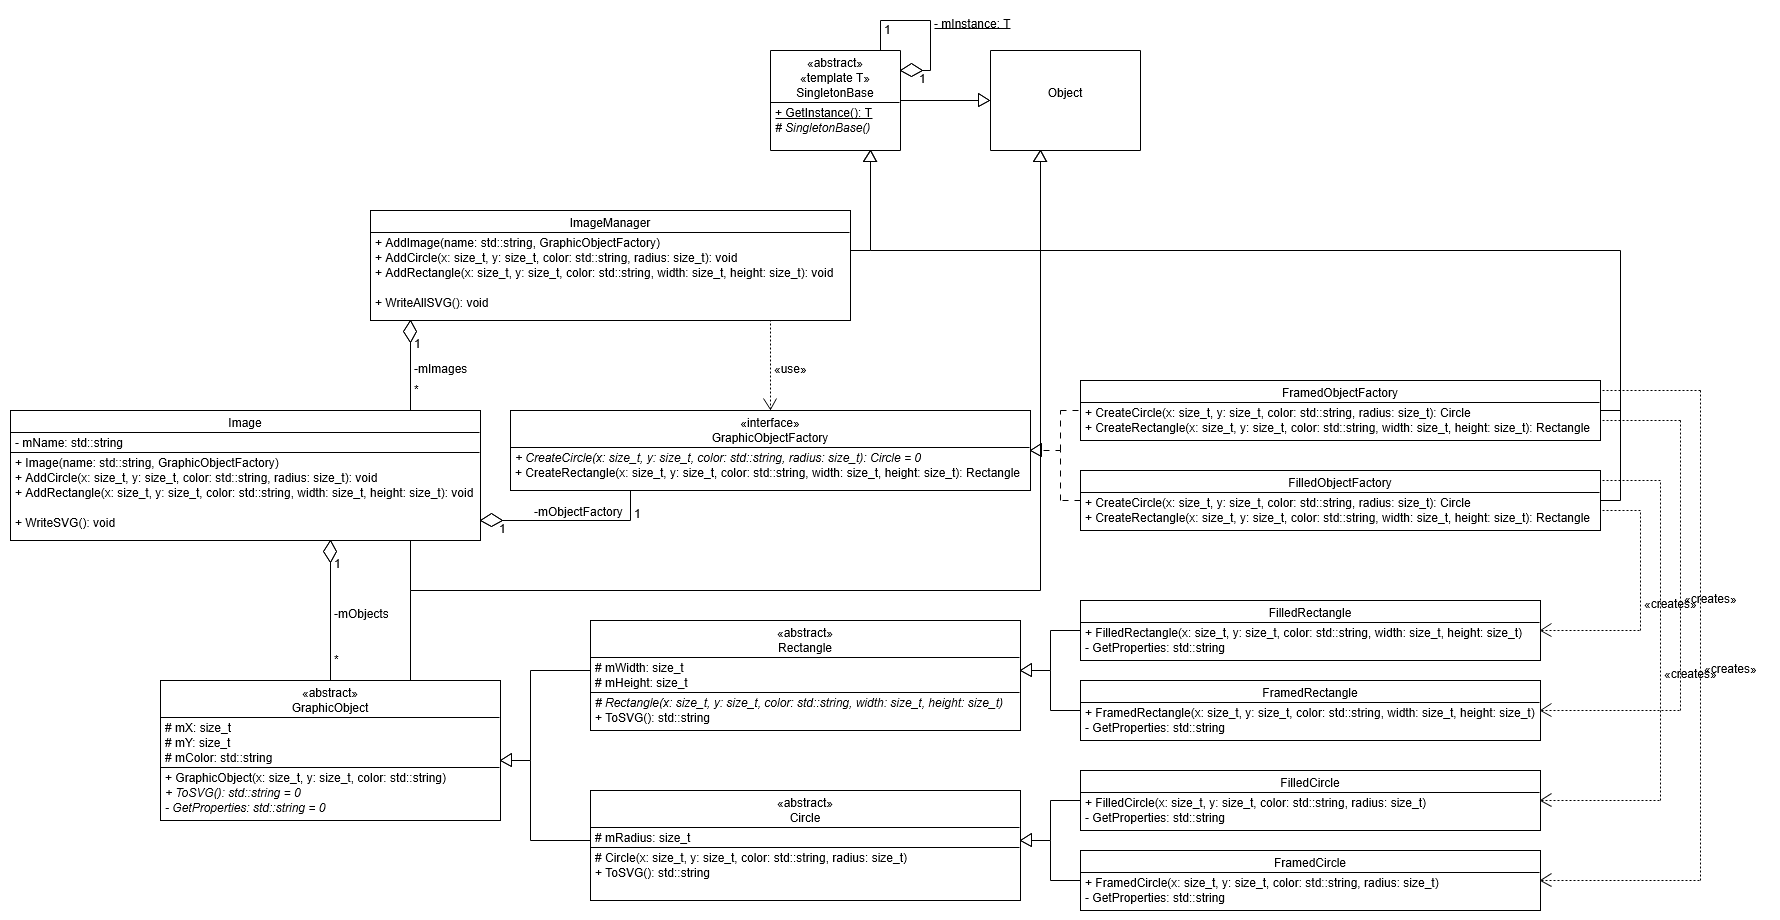
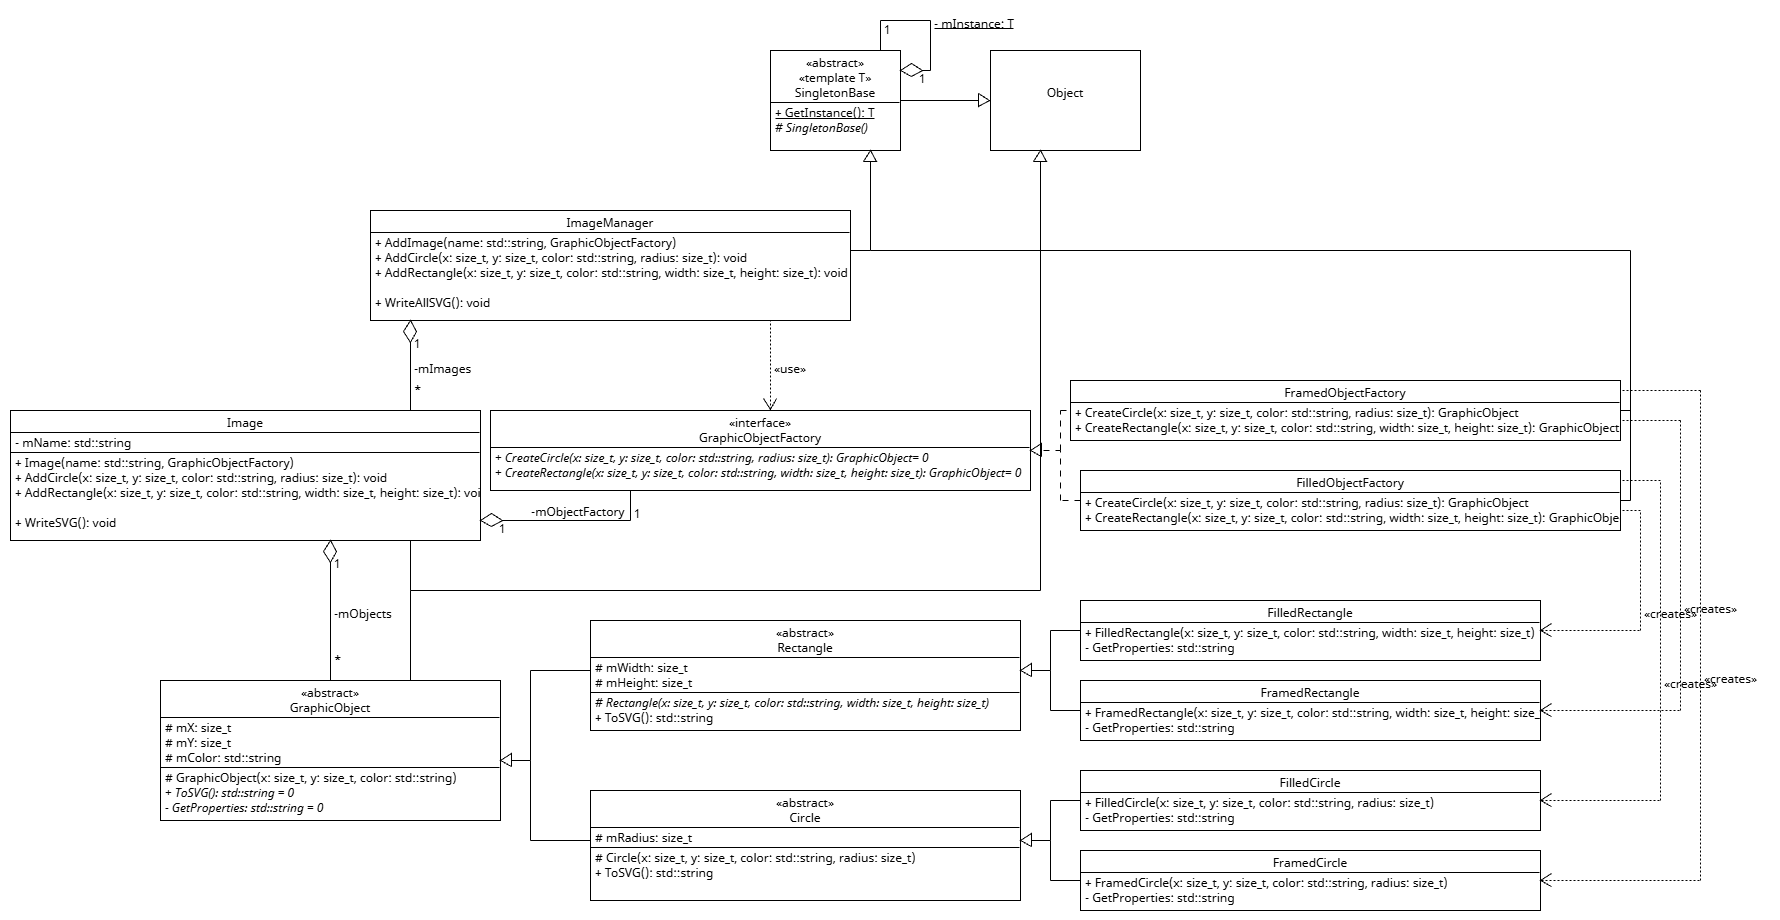
Implementation of the rest of the classes

diff --git a/Beispiel01/GraphicObjectFactory.h b/Beispiel01/GraphicObjectFactory.h
@@ -1,0 +1,35 @@
+#ifndef GRAPHICOBJECTFACTORY_H
+#define GRAPHICOBJECTFACTORY_H
+
+#include <string>
+#include <memory>
+
+#include "GraphicObject.h"
+
+
+/// @author Philip
+/// @date 5.11.2026
+/// @brief Interface class for diffrent graphic object factories
+/// 
+/// Circles and rectangle in diffrent styles can be created
+class GraphicObjectFactory
+{
+public:
+	/// @brief Creates a circle
+	/// @param[in] x x-pos of the circle
+	/// @param[in] y y-pos of the circle
+	/// @param[in] color color of the circle
+	/// @param[in] radius radius of the circle
+	virtual std::unique_ptr<GraphicObject> CreateCircle(size_t x, size_t y, std::string color, size_t radius) = 0;
+
+
+	/// @brief Creates a rectangle
+	/// @param[in] x x-pos of the rectangle
+	/// @param[in] y y-pos of the rectangle
+	/// @param[in] color color of the rectangle
+	/// @param[in] width width of the rectangle
+	/// @param[in] height height of the rectangle
+	virtual std::unique_ptr<GraphicObject> CreateRectangle(size_t x, size_t y, std::string color, size_t width, size_t height) = 0;
+};
+
+#endif

diff --git a/Beispiel01/FramedObjectFactory.h b/Beispiel01/FramedObjectFactory.h
@@ -1,0 +1,33 @@
+#ifndef FRAMEDOBJECTFACTORY_H
+#define FRAMEDOBJECTFACTORY_H
+
+#include "GraphicObject.h"
+#include "SingletonBase.h"
+
+
+/// @author Philip
+/// @date 8.11.2026
+/// @brief Factory to create framed circles and rectangles
+class FramedObjectFactory : public GraphicObject, public SingletonBase<FramedObjectFactory>
+{
+public:
+	/// @brief Creates a framed circle
+	/// @param[in] x x-pos of the circle
+	/// @param[in] y y-pos of the circle
+	/// @param[in] color color of the circle
+	/// @param[in] radius radius of the circle
+	virtual std::unique_ptr<GraphicObject> CreateCircle(size_t x, size_t y, std::string color, size_t radius);
+
+
+	/// @brief Creates a framed rectangle
+	/// @param[in] x x-pos of the rectangle
+	/// @param[in] y y-pos of the rectangle
+	/// @param[in] color color of the rectangle
+	/// @param[in] width width of the rectangle
+	/// @param[in] height height of the rectangle
+	virtual std::unique_ptr<GraphicObject> CreateRectangle(size_t x, size_t y, std::string color, size_t width, size_t height);
+
+
+};
+
+#endif

diff --git a/Beispiel01/FilledObjectFactory.h b/Beispiel01/FilledObjectFactory.h
@@ -1,0 +1,32 @@
+#ifndef FILLEDOBJECTFACTORY_H
+#define FILLEDOBJECTFACTORY_H
+
+#include "GraphicObject.h"
+#include "SingletonBase.h"
+
+
+/// @author Philip
+/// @date 8.11.2026
+/// @brief Factory to create filled circles and rectangles
+class FilledObjectFactory : public GraphicObject, public SingletonBase<FilledObjectFactory>
+{
+public:
+	/// @brief Creates a filled circle
+	/// @param[in] x x-pos of the circle
+	/// @param[in] y y-pos of the circle
+	/// @param[in] color color of the circle
+	/// @param[in] radius radius of the circle
+	virtual std::unique_ptr<GraphicObject> CreateCircle(size_t x, size_t y, std::string color, size_t radius);
+
+
+	/// @brief Creates a filled rectangle
+	/// @param[in] x x-pos of the rectangle
+	/// @param[in] y y-pos of the rectangle
+	/// @param[in] color color of the rectangle
+	/// @param[in] width width of the rectangle
+	/// @param[in] height height of the rectangle
+	virtual std::unique_ptr<GraphicObject> CreateRectangle(size_t x, size_t y, std::string color, size_t width, size_t height);
+
+};
+
+#endif

diff --git a/Beispiel01/FilledCricle.h b/Beispiel01/FilledCricle.h
@@ -1,0 +1,34 @@
+#ifndef FILLEDCIRCLE_H
+#define FILLEDCIRCLE_H
+
+#include "Circle.h"
+
+
+/// @author Philip Ackermann
+/// @date 09.11.2026
+/// @brief Class of a filled circle.
+/// 
+/// Represents a circle with its area drawn as filled.
+class FilledCircle : public Circle
+{
+public:
+	/// @brief std::unique_ptr of this class.
+	using UPtr = std::unique_ptr<FilledCircle>;
+
+	/// @brief CTor.
+	/// @param[in] x The X-coordinate of position.
+	/// @param[in] y The Y-coordinate of position.
+	/// @param[in] color Color of the circle (e.g. black, green,...).
+	/// @param[in] width The width of the circle.
+	/// @param[in] height The height of the circle.
+	FilledCircle(size_t const x, size_t const y, std::string const& color, size_t const radius);
+
+protected:
+	/// @brief Gets additional properties for the SVG-XML-Element.
+	/// @returns XML-properties as a string.
+	/// 
+	/// This is used as a template method in ToSVG for SVG creation.
+	std::string GetProperties() const override;
+};
+
+#endif

diff --git a/Beispiel01/FramedCircle.h b/Beispiel01/FramedCircle.h
@@ -1,0 +1,34 @@
+#ifndef FRAMEDCIRCLE_H
+#define FRAMEDCIRCLE_H
+
+#include "Circle.h"
+
+
+/// @author Philip Ackermann
+/// @date 09.11.2026
+/// @brief Class of a framed circle.
+/// 
+/// Represents a circle drawn as frame.
+class FramedCircle : public Circle
+{
+public:
+	/// @brief std::unique_ptr of this class.
+	using UPtr = std::unique_ptr<FramedCircle>;
+
+	/// @brief CTor.
+	/// @param[in] x The X-coordinate of position.
+	/// @param[in] y The Y-coordinate of position.
+	/// @param[in] color Color of the circle (e.g. black, green,...).
+	/// @param[in] width The width of the circle.
+	/// @param[in] height The height of the circle.
+	FramedCircle(size_t const x, size_t const y, std::string const& color, size_t const radius);
+
+protected:
+	/// @brief Gets additional properties for the SVG-XML-Element.
+	/// @returns XML-properties as a string.
+	/// 
+	/// This is used as a template method in ToSVG for SVG creation.
+	std::string GetProperties() const override;
+};
+
+#endif

diff --git a/Beispiel01/Circle.h b/Beispiel01/Circle.h
@@ -1,0 +1,35 @@
+#ifndef CIRCLE_H
+#define CIRCLE_H
+
+#include "GraphicObject.h"
+
+
+/// @author Philip Ackermann
+/// @date 09.11.2026
+/// @brief Abstract base class of all circles.
+/// 
+/// Stores common information like radius of the circle.
+class Circle : public GraphicObject
+{
+public:
+	/// @brief std::unique_ptr of this class.
+	using UPtr = std::unique_ptr<Circle>;
+
+	/// @brief CTor.
+	/// @param[in] x The X-coordinate of position.
+	/// @param[in] y The Y-coordinate of position.
+	/// @param[in] color Color of the circle (e.g. black, green,...).
+	/// @param[in] width The width of the circle.
+	Circle(size_t const x, size_t const y, std::string const& color, size_t const radius);
+
+	/// @brief Creates a SVG-XML-Element of the circle.
+	/// @returns The SVG-XML-Element as a string.
+	std::string ToSVG() const override;
+
+protected:
+	/// @brief The radius of the circle.
+	size_t const mRadius;
+	
+};
+
+#endif

diff --git a/Beispiel01/FramedObjectFactory.cpp b/Beispiel01/FramedObjectFactory.cpp
@@ -1,0 +1,13 @@
+#include "FramedObjectFactory.h"
+#include "FramedRectangle.h"
+#include "FramedCircle.h"
+
+std::unique_ptr<GraphicObject> FramedObjectFactory::CreateCircle(size_t x, size_t y, std::string color, size_t radius)
+{
+	return std::make_unique<FramedCircle>(FramedCircle::FramedCircle(x, y, color, radius));
+}
+
+std::unique_ptr<GraphicObject> FramedObjectFactory::CreateRectangle(size_t x, size_t y, std::string color, size_t width, size_t height)
+{
+	return std::make_unique<FramedRectangle>(FramedRectangle::FramedRectangle(x, y, color, width, height));
+}

diff --git a/Beispiel01/FilledObjectFactory.cpp b/Beispiel01/FilledObjectFactory.cpp
@@ -1,0 +1,13 @@
+#include "FilledObjectFactory.h"
+#include "FilledRectangle.h"
+#include "FilledCricle.h"
+
+std::unique_ptr<GraphicObject> FilledObjectFactory::CreateCircle(size_t x, size_t y, std::string color, size_t radius)
+{
+	return std::make_unique<FilledCircle>(FilledCircle::FilledCircle(x, y, color,radius));
+}
+
+std::unique_ptr<GraphicObject> FilledObjectFactory::CreateRectangle(size_t x, size_t y, std::string color, size_t width, size_t height)
+{
+	return std::make_unique<FilledRectangle>(FilledRectangle::FilledRectangle(x, y, color, width, height));
+}

diff --git a/Beispiel01/Circle.cpp b/Beispiel01/Circle.cpp
@@ -1,0 +1,16 @@
+#include "Circle.h"
+
+#include <format>
+
+Circle::Circle(size_t const x, size_t const y, std::string const& color, size_t const radius) :
+	GraphicObject{ x, y, color },
+	mRadius{radius}
+{
+}
+
+std::string Circle::ToSVG() const
+{
+	// Example: <circle cx="55" cy="45" r="35" stroke="black" fill="none"/>
+	return std::format("circle cx=\"{}\" cy=\"{}\" r=\"{}\" stroke=\"{}\" {}/>", mX, mY, mRadius, mColor, GetProperties());
+}
+

diff --git a/Beispiel01/FilledCricle.cpp b/Beispiel01/FilledCricle.cpp
@@ -1,0 +1,12 @@
+#include "FilledCricle.h"
+
+FilledCircle::FilledCircle(size_t const x, size_t const y, std::string const& color, size_t const radius) :
+	Circle{x,y,color,radius}
+{
+}
+
+std::string FilledCircle::GetProperties() const
+{
+	// In this case we need no additional properties as filling is the default behaviour.
+	return "";
+}

diff --git a/Beispiel01/FramedCircle.cpp b/Beispiel01/FramedCircle.cpp
@@ -1,0 +1,12 @@
+#include "FramedCircle.h"
+
+FramedCircle::FramedCircle(size_t const x, size_t const y, std::string const& color, size_t const radius) :
+	Circle{ x,y,color,radius }
+{
+}
+
+std::string FramedCircle::GetProperties() const
+{
+	// Makes the rectangle fill transparent.
+	return "fill=\"none\"";
+}
